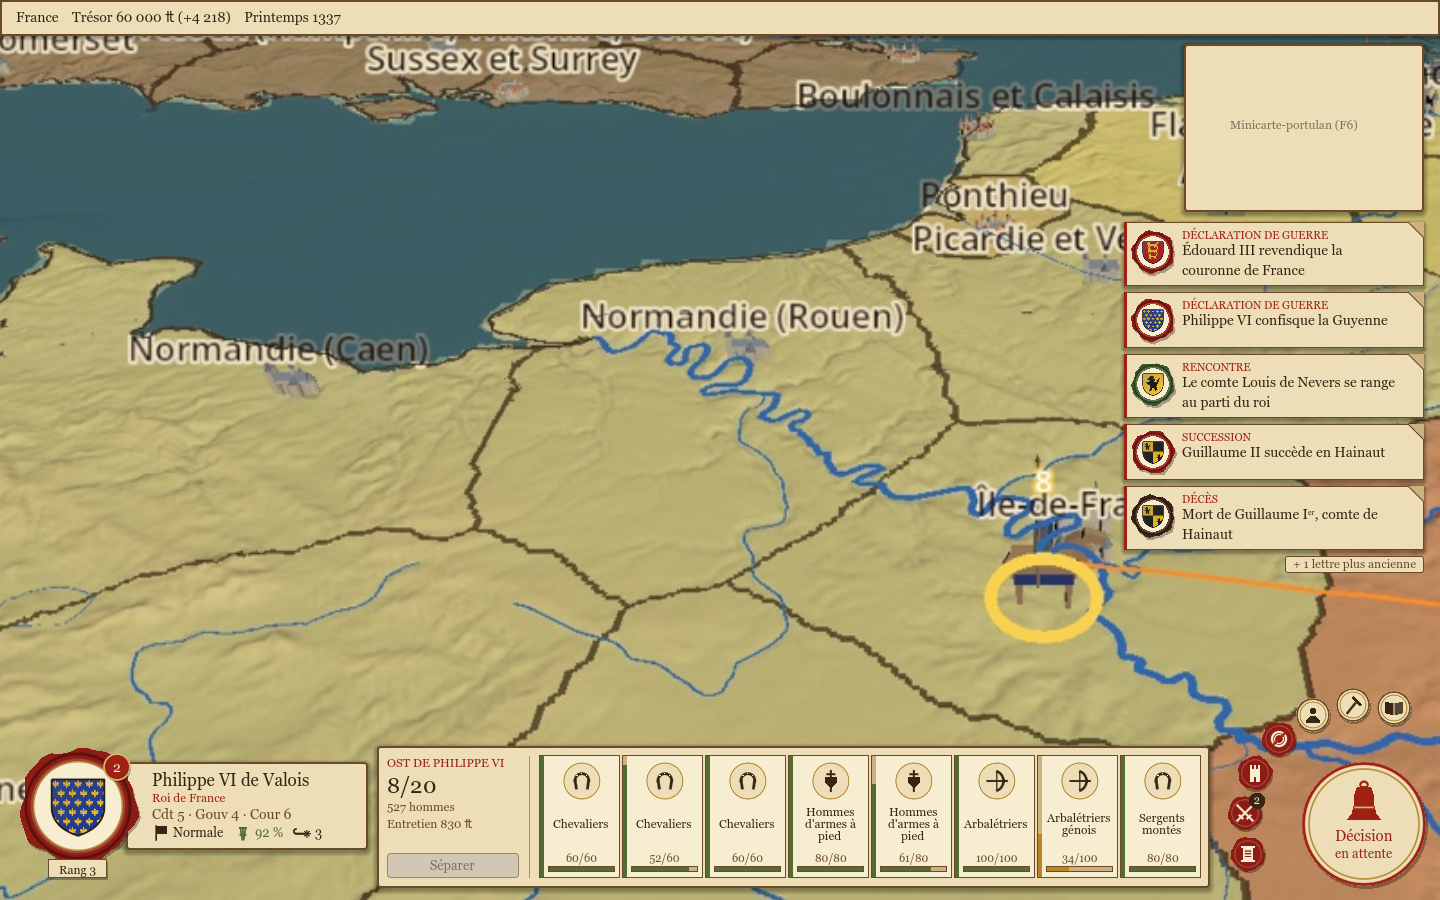
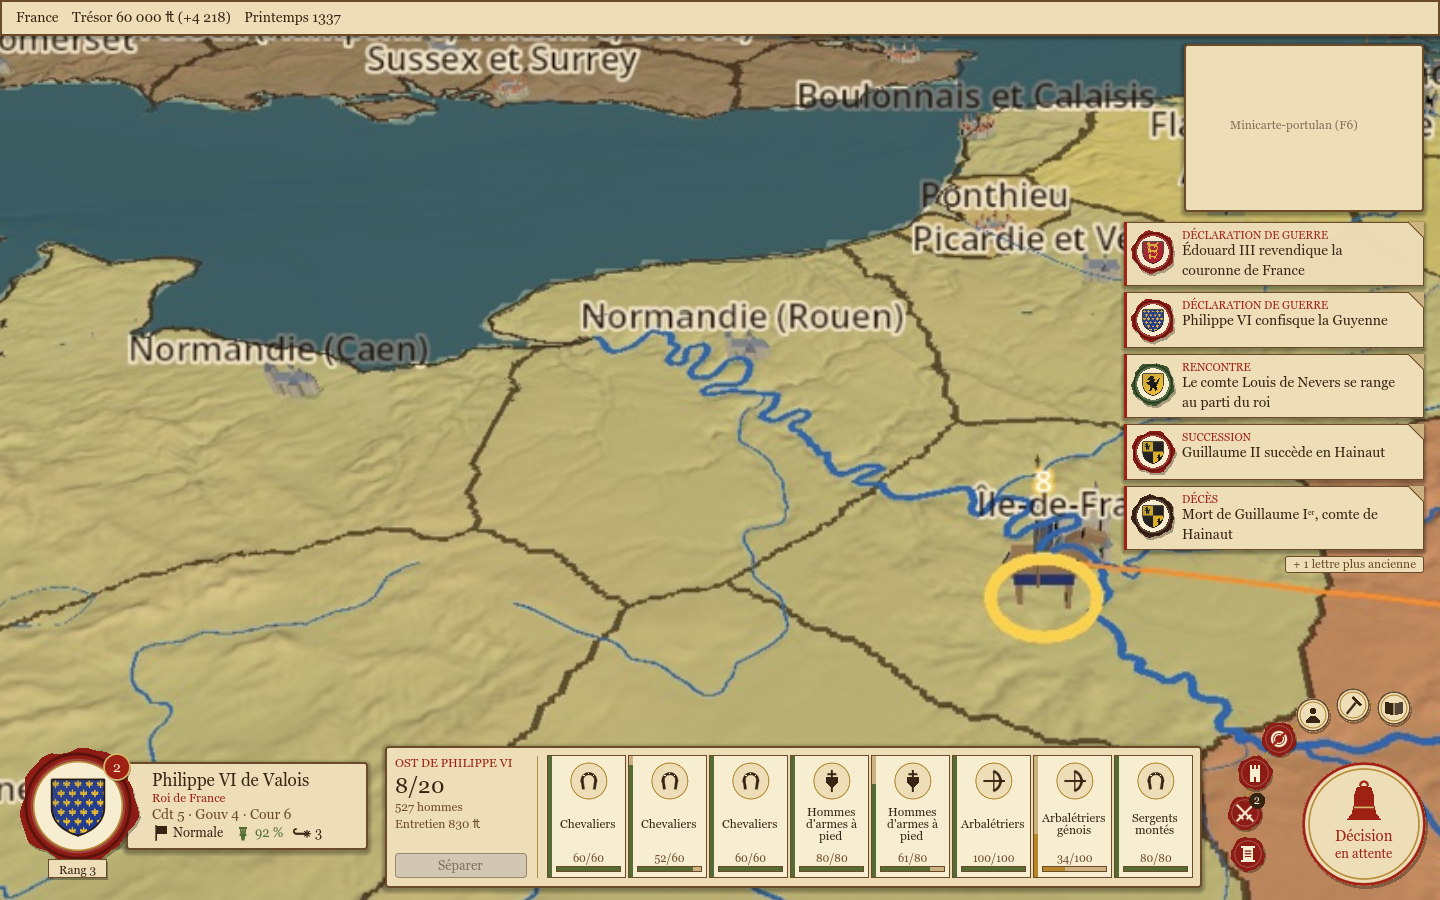
feat(ui): Total War-style campaign HUD components (army strip, general seal, end-turn bell, sealed news letters) with preview, headless test and integration guide

Changed region(s): [[0.25, 0.8089, 0.5938, 0.9956], [0.625, 0.84, 0.8438, 0.9956]]

diff --git a/docs/design/hud-campagne.md b/docs/design/hud-campagne.md
@@ -1,0 +1,168 @@
+# HUD de campagne inspiré de Total War — composants (lot F10a) et guide d'intégration
+
+Référence : `docs/design/2026-09-23-audit-ui-total-war.md` § 3.1 et § 3.3.
+Captures : `docs/img/hud-preview.png` (1440×900, décision bloquante), `docs/img/hud-preview-1920.png`
+(1920×1080, lettre dépliée, deux régiments sélectionnés, sans décision), `docs/img/hud-preview-20units.png`
+(20 régiments sur deux rangs, armée sans chef).
+
+On reprend la **grammaire** de TW:WH3 (bandeau d'armée en bas au centre, médaillon du général en bas à
+gauche, cercle de fin de tour et alertes en bas à droite, messages empilés à droite) dans le registre du
+manuscrit enluminé : parchemin opaque, encre sépia, rubriques rouges, filets d'or, cire à sceller, écus
+exacts (`game/assets/heraldry/fac_*.png`). Ni lueur, ni ornement fantastique.
+
+## 1. Fichiers
+
+| Fichier | Rôle |
+|---|---|
+| `game/scripts/ui/hud_style.gd` (`HudStyle`) | palette (reprise de `parchment_theme.tres`), boîtes de style, sceau de cire, découpe circulaire sans shader, pictogrammes de repli dessinés au trait, accès facultatif à `IconLibrary` |
+| `game/scripts/ui/army_strip.gd` + `game/scenes/ui/army_strip.tscn` (`ArmyStrip`) | bandeau d'ost |
+| `game/scripts/ui/general_seal.gd` + `game/scenes/ui/general_seal.tscn` (`GeneralSeal`) | sceau du chef |
+| `game/scripts/ui/end_turn_cluster.gd` + `game/scenes/ui/end_turn_cluster.tscn` (`EndTurnCluster`) | cloche de fin de saison et alertes |
+| `game/scripts/ui/news_letters.gd` + `game/scenes/ui/news_letters.tscn` (`NewsLetters`) | lettres scellées |
+| `game/tests/hud_preview.tscn` / `.gd` | aperçu sur fond de carte, données de 1337, `-- --screenshot=<png>` |
+| `game/tests/hud_components_test.gd` | test headless (instanciation, API, signaux) |
+
+Aucun composant n'accède à `SimFacade` ni à `CampaignSim` : ils reçoivent des `Dictionary` et émettent
+des signaux. Icônes : si l'autoload `IconLibrary` (F2) existe, `HudStyle.icon(id, category)` l'utilise
+(`unit_<type>` puis `class_<catégorie>` pour les cartes, `hud_<alerte>` pour les pastilles,
+`hud_stance_*`, `hud_supply`, `hud_movement` pour le sceau) ; sinon pictogrammes dessinés.
+
+Commandes :
+
+```sh
+godot --path game res://tests/hud_preview.tscn -- --screenshot=docs/img/hud-preview.png
+godot --path game --resolution 1920x1080 res://tests/hud_preview.tscn -- --screenshot=docs/img/hud-preview-1920.png --expand --select=5,6 --no-block
+godot --path game res://tests/hud_preview.tscn -- --units=20 --no-general
+godot --headless --path game --script res://tests/hud_components_test.gd
+```
+
+## 2. API
+
+### ArmyStrip (bas centre)
+- `set_army(army: Dictionary, capacity := 20, catalog := {}, title := "")` — `army` = `CampaignSim.get_army(id)`
+  tel quel ; `catalog` = `ArmyStrip.load_unit_catalog(MapPaths.data_dir)` (classe, entretien, moral de base,
+  lu une fois dans `data/unit_types/*.json`) ; `title` = rubrique (« Ost de Philippe VI »).
+- `clear()`, `select(indices)`, `get_selection() -> PackedInt32Array`, `total_upkeep()`, `card_layout(n)`,
+  propriétés `max_width` (px disponibles ; les cartes rétrécissent puis passent sur deux rangs) et `can_split`.
+- Signaux : `unit_selected(index)`, `selection_changed(indices)`, `split_requested(indices)`.
+- Clic = sélection simple ; Maj/Ctrl/Cmd-clic = ajoute/retire ; « Séparer (n) » actif si 0 < n < total.
+- Moral en liseré (bande gauche, hauteur et teinte = moral / moral de base du type) ; effectif en
+  chiffres + barre ; infobulle riche (nom, classe, effectif, moral/base, entretien).
+- Noms : retour à la ligne aux espaces seulement ; police 12 → 10 ; sinon abréviation de chancellerie
+  (« Arbalét. ») ; sous 70 px de large, carte compacte sans nom (nom dans l'infobulle).
+
+### GeneralSeal (bas gauche)
+- `set_general(character: Dictionary, army := {}, faction := "")` — `character` = `CampaignSim.get_character(army.general)`
+  (vide = « Sans chef ») ; `army` = `get_army(id)` pour posture, ravitaillement, mouvement.
+- Portrait : `character.portrait` (chemin) sinon `PortraitLoader.portrait_texture(id)`, découpé en disque ;
+  à défaut, écu de la faction sur le sceau.
+- Rang : `character.rank` s'il existe, sinon `1 + skills_learned.size()` (affichage seulement).
+- Pastille rouge = `skill_points` non dépensés.
+- Signaux : `general_requested(character_id)` (clic sur le composant), `stance_selected(stance)` (clic sur la
+  posture → menu Normale / Chevauchée / Siège ; propriété `can_change_stance`, faux pour une armée étrangère).
+
+### EndTurnCluster (bas droite)
+- `set_date(label, turn := -1)` (« Printemps 1337 » : saison sur la 1ʳᵉ ligne, année sur la 2ᵉ).
+- `set_alerts(alerts: Array)` avec `{kind, text, province_id?, army_id?, character_id?, blocking?}` ; types :
+  `chronicle_decision` (bloquante par défaut), `enemy_army`, `siege`, `debt`, `idle_character`,
+  `construction_done`, `research_done` (autres : pastille neutre). Une pastille par type (compteur si > 1),
+  7 au plus, en éventail ; cire rouge = danger, parchemin = information.
+- `set_end_turn_enabled(bool)`, `blocking_alert()`, `EndTurnCluster.is_blocking(alert)`, `get_alert_groups()`,
+  `activate_group(i)`, `fan_left_edge()` (borne gauche de l'éventail, pour placer le bandeau).
+- Signaux : `end_turn_requested` (clic ou action `campaign_end_turn`, s'il n'y a aucune alerte bloquante),
+  `alert_activated(alert)` (clic sur une pastille : alertes du type à tour de rôle ; clic sur la cloche quand
+  une décision bloque : l'alerte bloquante).
+- Propriété `use_shortcut` (vrai) : le bouton porte le raccourci `campaign_end_turn` (Entrée).
+
+### NewsLetters (haut droite, sous la minicarte)
+- `push_news({kind, title, text, faction_id?, province_id?})` (la plus récente en haut ; 40 conservées),
+  `NewsLetters.news_from_event(event)` (événement du journal → lettre, `{}` si l'événement n'en mérite pas),
+  `activate(i)`, `dismiss(i)`, `clear()`, `get_items()`, propriété `max_visible` (5).
+- Types : `faction_met`, `war_declared`, `peace`/`peace_signed`, `birth`, `death`, `succession`,
+  `city_captured`/`province_captured`, `alliance_formed`, `alliance_broken`, `marriage`, `vassalage`,
+  `vassal_rebellion`, `faction_destroyed`, `excommunication`, `regency`, `general_captured`, `revolt`, `plague`.
+  Cire verte pour la paix et les alliances, brune pour un décès, rouge sinon.
+- Signaux : `news_activated(item)` (clic gauche, déplie le texte), `news_dismissed(item)` (clic droit).
+
+## 3. Guide d'intégration (à faire par l'orchestrateur)
+
+Fichiers à modifier : `game/scripts/map/map_ui.gd` (+ sa scène dans `campaign_map.tscn`) et
+`game/scripts/map/campaign_map.gd`. Les composants n'ont besoin d'aucune modification.
+
+### 3.1 Placement dans `map_ui`
+Ajouter les quatre scènes comme enfants du `CanvasLayer` du HUD, puis reproduire `layout_hud()` de
+`game/tests/hud_preview.gd` sur `resized` du HUD et `minimum_size_changed` du bandeau (appel différé) :
+- sceau : `(16, H − hauteur − 16)` ;
+- cloche : coin bas droit, marge 8 ;
+- bandeau : `max_width = bord gauche de l'éventail (cluster.position.x + cluster.fan_left_edge() − 10) −
+  (bord droit du sceau + 16)`, centré dans cet intervalle, marge basse 12 ;
+- lettres : x = `W − 300 − 16`, y = bas de la minicarte F6 + 10 (en attendant F6 : barre haute + 8).
+Le bandeau et le sceau ne sont visibles que lorsqu'une armée est sélectionnée.
+
+### 3.2 Ce qui remplace quoi
+| Actuel | Remplacé par | Remarque |
+|---|---|---|
+| `ArmyPanel` (panneau de droite) : liste texte des unités | `ArmyStrip` | supprimer `%ArmyPanel` du HUD ou le garder masqué le temps de la transition |
+| `ArmyPanel` : général, compétences, mouvement, ravitaillement, posture | `GeneralSeal` | posture : `stance_selected` remplace l'`OptionButton` |
+| `ArmyPanel` : position, ordre en cours | étiquette de survol / chemin (`%HoverLabel`) | la remonter au-dessus du bandeau (y = haut du bandeau − 32) |
+| `%EndTurnButton` (barre haute) | `EndTurnCluster` | **retirer le raccourci de l'ancien bouton** (sinon double fin de tour), puis le bouton |
+| `%DateLabel` | garder dans la barre haute (date en toutes lettres) **et** `cluster.set_date(...)` | |
+| `%EventLog` (journal bas gauche) | reste accessible par un bouton « Journal » de la barre haute ; se replie par défaut | il chevaucherait le sceau : le déplacer à gauche au-dessus du sceau ou en fenêtre |
+| — | `NewsLetters` | nouvelles marquantes seulement ; le journal garde tout |
+
+### 3.3 Données → composants (`campaign_map.gd`)
+- **Sélection d'armée** (`select_army(army_id)`, après `ui.show_army`) :
+  ```gdscript
+  var army: Dictionary = sim.call("get_army", army_id)
+  var general_id := str(army.get("general", ""))
+  var character: Dictionary = sim.call("get_character", general_id) if general_id != "" and _characters_available() else {}
+  ui.army_strip.set_army(army, ARMY_CAPACITY, _unit_catalog, "Ost de %s" % (str(army.get("general_name", "")) if general_id != "" else SimFacade.faction_short_name(faction)))
+  ui.army_strip.can_split = is_player
+  ui.general_seal.can_change_stance = is_player
+  ui.general_seal.set_general(character, army, faction)
+  ```
+  `_unit_catalog = ArmyStrip.load_unit_catalog(MapPaths.data_dir)` une fois au chargement.
+  `deselect_army()` → `army_strip.clear()` et masquer le sceau. Rafraîchir aussi après chaque ordre,
+  fin de tour et chargement (comme `show_army` aujourd'hui).
+- **Capacité** (`8/20`) : aucune limite n'existe encore dans `core/`. En attendant une règle (liée au rang
+  ou au Commandement du chef, lot F4), passer 20 ; la valeur doit venir de la simulation ou de `data/`,
+  pas d'une constante GDScript durable.
+- **Fin de tour** : `cluster.end_turn_requested` → `_on_end_turn()` (même chemin que `ui.end_turn_pressed`) ;
+  `map_ui.set_end_turn_enabled(x)` doit aussi appeler `cluster.set_end_turn_enabled(x)`.
+  Après chaque tour / chargement : `cluster.set_date(sim.get_date_label(), sim.get_turn())`.
+- **Alertes** (F3 les produira ; en attendant, construction minimale côté `campaign_map`, sans règle) :
+  - `sim.get_pending_decisions()` → `{kind: "chronicle_decision", text: title, province_id: province, blocking: true, decision_id: id}` ;
+  - événements du tour de `kind` `building_completed` → `construction_done`, `technology_researched` (faction du joueur) → `research_done`,
+    `siege_started` (province du joueur) → `siege` ;
+  - `get_faction_summary(player).treasury < 0` ou `projected_income < 0` → `debt` ;
+  - armées étrangères en guerre avec le joueur dans une province voisine de ses provinces → `enemy_army`
+    (à calculer dans `core/` par F3, pas en GDScript) ;
+  - personnages de `get_faction_characters(player)` sans `army` ni `governor_of`, adultes → `idle_character` (F3).
+- **Activation d'une alerte** (`cluster.alert_activated(alert)`) :
+  `chronicle_decision` → `chronicle.open_window()` ; `army_id` → `select_army(army_id)` + caméra sur l'armée ;
+  `province_id` → caméra (`camera_rig.look_at_point`) + panneau de province ; `character_id` →
+  `_on_character_selected(id)`.
+- **Nouvelles** : dans `ui.add_events(events, …)` (ou juste avant), pour chaque événement
+  `var item := NewsLetters.news_from_event(event)` ; si non vide, `news_letters.push_news(item)`. Une
+  rencontre de faction (`faction_met`) n'existe pas encore comme événement : à produire par F3/F4.
+  `news_activated(item)` → caméra sur `item.province_id` s'il existe, sinon ouvrir la diplomatie sur
+  `item.faction_id`.
+- **Sceau** : `general_requested(id)` → `_on_character_selected(id)` (fiche) ; si `id` est vide, ouvrir la cour
+  filtrée sur les chefs (`CourtPanel.FILTER_GENERAL`). `stance_selected(stance)` →
+  `_submit({"type": "set_stance", "army": selected_army, "stance": stance}, "Posture modifiée.")` (chemin actuel de `stance_changed`).
+- **Bandeau** : `split_requested(indices)` → `submit_order({"type": "split_army", "army": selected_army,
+  "unit_indices": Array(indices)})` puis `refresh_all()` ; `unit_selected(i)` → rien d'obligatoire (plus tard :
+  détail d'unité, F2).
+
+### 3.4 Tests
+- Ajouter l'appel du test composants à la chaîne de tests (il est autonome) ; le smoke n'a pas été modifié.
+- Après intégration, recapturer `campaign_map.tscn -- --screenshot=...` à 1440×900 et 1920×1080 et vérifier
+  l'absence de chevauchement avec la minicarte (F6), le journal et l'étiquette de chemin.
+
+## 4. Limites connues
+- La capacité `8/20` et le rang n'ont pas de règle dans `core/` (affichage seulement).
+- L'entretien affiché est la somme des `upkeep` de base du catalogue ; si `core/` applique des modificateurs,
+  exposer `upkeep` dans `get_army` (le bandeau le préfère automatiquement).
+- Pas de glisser-déposer pour séparer (Maj/Ctrl-clic puis « Séparer ») ; pas de fusion d'armées depuis le bandeau.
+- Pictogrammes de repli volontairement sobres ; les icônes F2 les remplacent dès que l'autoload existe.
+- Les tailles sont en pixels (projet sans `stretch`) : à 1920×1080 le HUD est proportionnellement plus petit.

diff --git a/docs/wip/hud-campagne.md b/docs/wip/hud-campagne.md
@@ -2,15 +2,15 @@
 
 Branche : `worktree-agent-a74b133436188f172`.
 
-## État
+## État : terminé (composants seuls, non intégrés)
 - [x] Squelette : 4 scènes `game/scenes/ui/{army_strip,general_seal,end_turn_cluster,news_letters}.tscn`, scripts, `hud_style.gd`.
-- [x] ArmyStrip
-- [x] GeneralSeal
-- [x] EndTurnCluster
-- [x] NewsLetters
-- [x] Aperçu `game/tests/hud_preview.tscn` + captures `docs/img/hud-preview*.png`
-- [x] Test headless `game/tests/hud_components_test.gd`
-- [ ] Guide d'intégration `docs/design/hud-campagne.md`
+- [x] ArmyStrip (cartes pleines ou compactes sur deux rangs, noms sans coupure de mot, multisélection, séparer)
+- [x] GeneralSeal (sceau de cire, écu ou portrait, rang, points, posture avec menu, ravitaillement, mouvement)
+- [x] EndTurnCluster (cloche, éventail d'alertes groupées, décision bloquante, raccourci `campaign_end_turn`)
+- [x] NewsLetters (lettres scellées, déplier / écarter, `news_from_event`)
+- [x] Aperçu `game/tests/hud_preview.tscn` + captures `docs/img/hud-preview.png`, `hud-preview-1920.png`, `hud-preview-20units.png`
+- [x] Test headless `game/tests/hud_components_test.gd` (OK)
+- [x] Guide d'intégration `docs/design/hud-campagne.md`
 
 ## Prochaine étape
-Rédiger le guide d intégration docs/design/hud-campagne.md ; recapturer 1440 et 1920.
+Intégration dans `map_ui` / `campaign_map` par l'orchestrateur (guide § 3), après fusion de F2 (icônes) et F3 (alertes).
